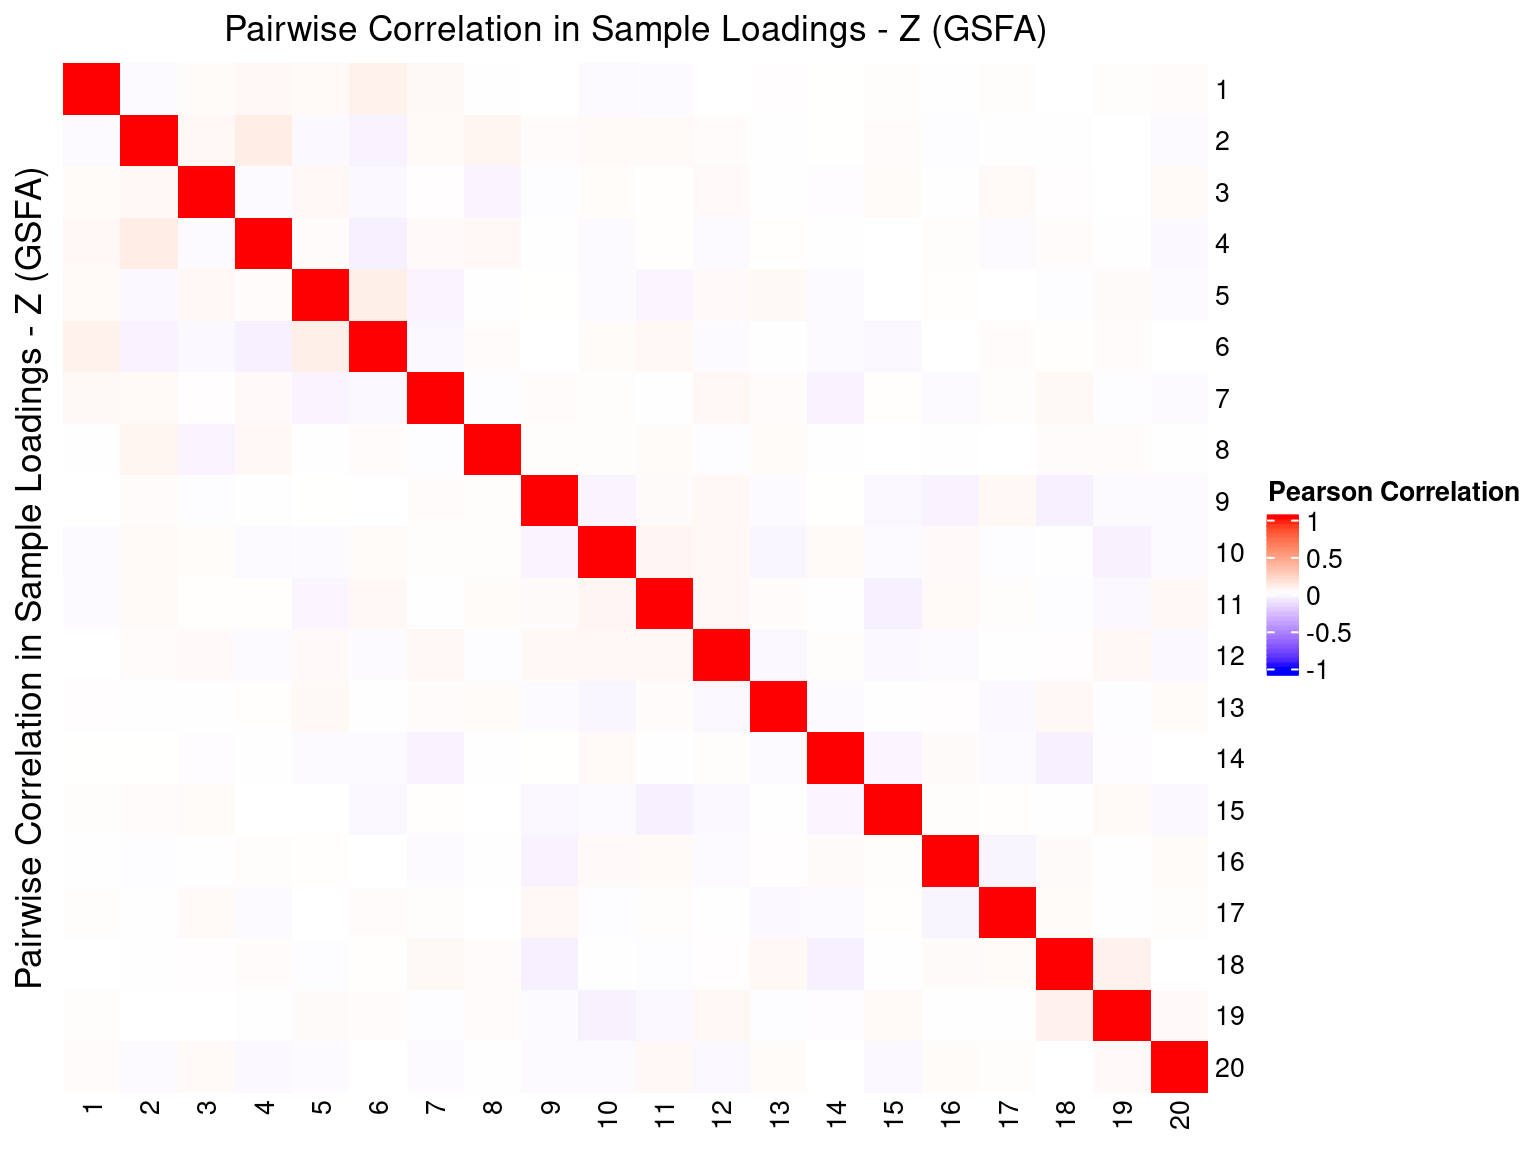
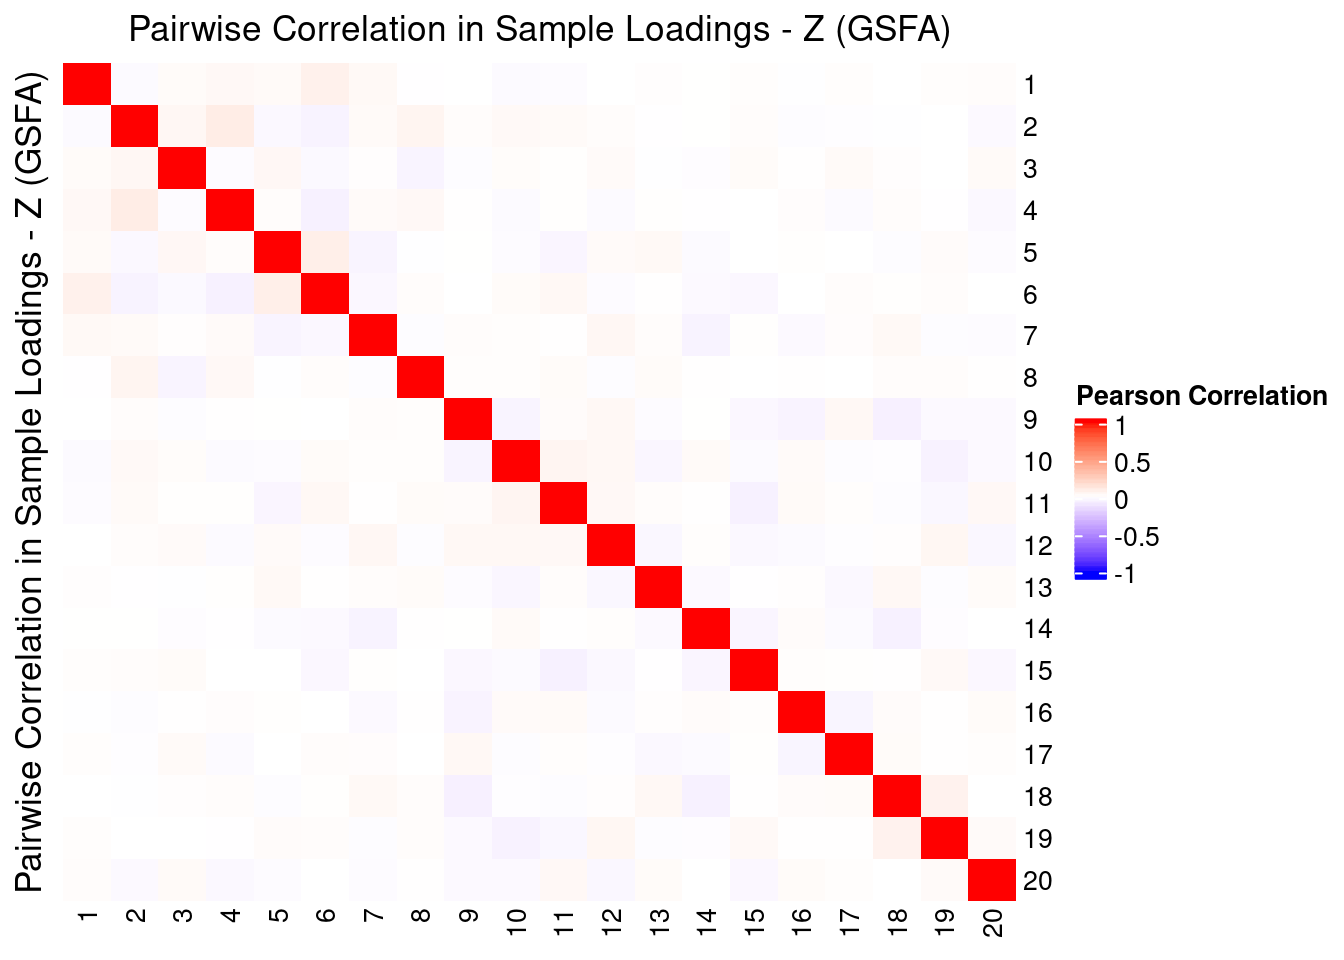
rearrange markers

diff --git a/docs/Stimulated_TCells_merged.gsfa_dev_res_normal_mixture.html b/docs/Stimulated_TCells_merged.gsfa_dev_res_normal_mixture.html
@@ -716,8 +716,8 @@ Num_genes
 </div>
 <div id="correlation-btw-factors" class="section level3">
 <h3><span class="header-section-number">2.1.5</span> Correlation btw Factors</h3>
-<p><img src="Stimulated_TCells_merged.gsfa_dev_res_normal_mixture_files/figure-html/unnamed-chunk-8-1.png" width="768" style="display: block; margin: auto;" /></p>
-<p><img src="Stimulated_TCells_merged.gsfa_dev_res_normal_mixture_files/figure-html/unnamed-chunk-9-1.png" width="768" style="display: block; margin: auto;" /></p>
+<p><img src="Stimulated_TCells_merged.gsfa_dev_res_normal_mixture_files/figure-html/unnamed-chunk-8-1.png" width="672" style="display: block; margin: auto;" /></p>
+<p><img src="Stimulated_TCells_merged.gsfa_dev_res_normal_mixture_files/figure-html/unnamed-chunk-9-1.png" width="672" style="display: block; margin: auto;" /></p>
 </div>
 </div>
 <div id="alternative-initializations-and-chain-convergence" class="section level2">
